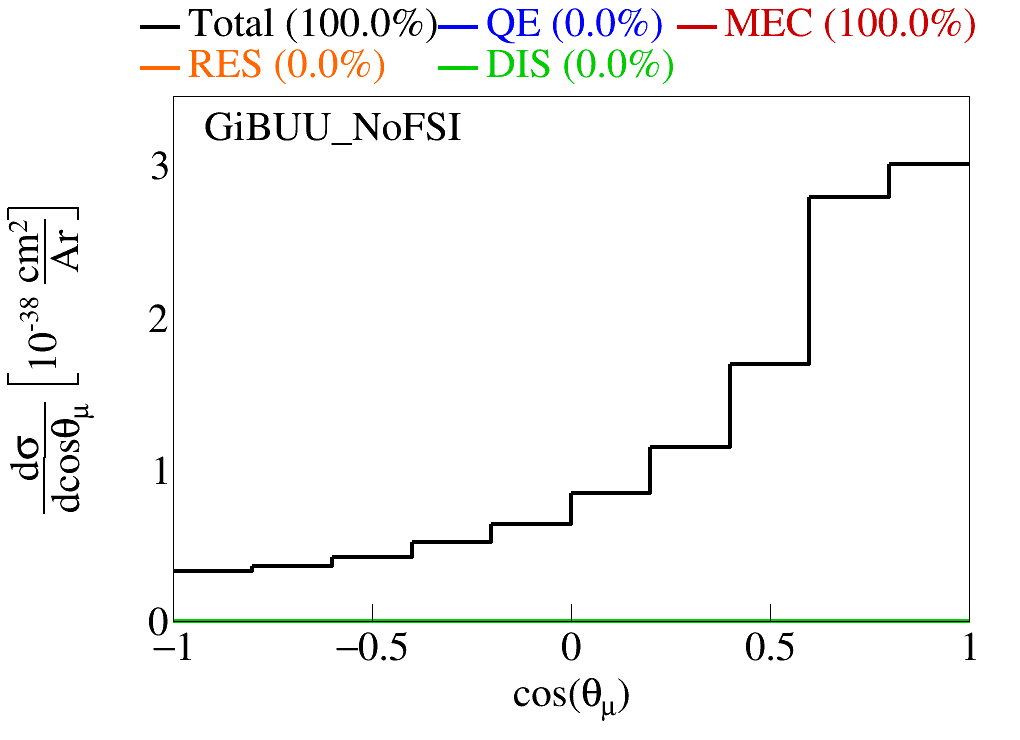
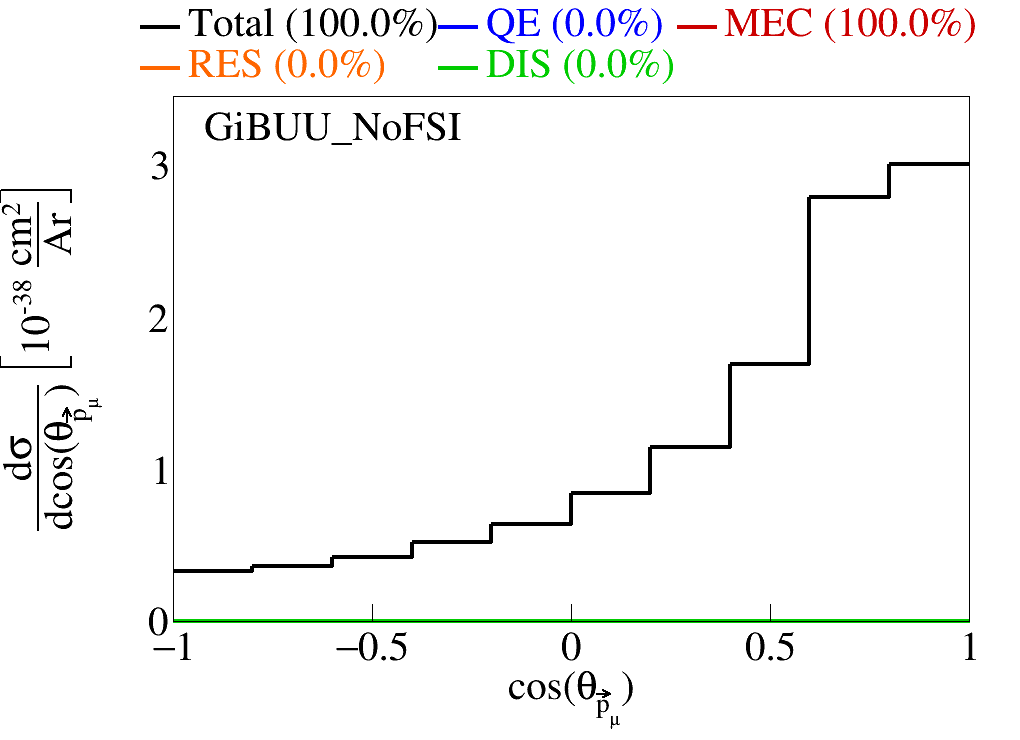
Reweight double differential plots correctly

Changed region(s): [[0.0, 0.2486, 0.0912, 0.7149], [0.4863, 0.9014, 0.6382, 0.9946]]

diff --git a/Scripts/SerialGeneratorOverlay.cpp b/Scripts/SerialGeneratorOverlay.cpp
@@ -76,12 +76,25 @@ void SerialGeneratorOverlay() {
     // Plots to overlay
 
     std::vector<TString> PlotNames;
+    std::vector<TString> XAxisLabel;
+    std::vector<TString> YAxisLabel;
 
     // We only look at double differential plots here
     PlotNames.push_back("TrueSerialTransverseMomentum_InMuonCosThetaPlot");
+    XAxisLabel.push_back("#delta P_{T}");
+    YAxisLabel.push_back("#frac{d#sigma}{d#delta P_{T}} #left[10^{-38} #frac{cm^{2}}{Ar}#right]");
+
     PlotNames.push_back("TrueSerialDeltaAlphaT_InMuonCosThetaPlot");
+    XAxisLabel.push_back("#delta #alpha_{T}");
+    YAxisLabel.push_back("#frac{d#sigma}{d#delta #alpha_{T}} #left[10^{-38} #frac{cm^{2}}{Ar}#right]");
+
     PlotNames.push_back("TrueSerialCosOpeningAngleProtons_InMuonCosThetaPlot");
+    XAxisLabel.push_back("cos(#theta_{#vec{p}_{L},#vec{p}_{R}})");
+    YAxisLabel.push_back("#frac{d#sigma}{dcos(#theta_{#vec{p}_{L},#vec{p}_{R}})} #left[10^{-38} #frac{cm^{2}}{Ar}#right]");
+
     PlotNames.push_back("TrueSerialCosOpeningAngleMuonTotalProton_InMuonCosThetaPlot");
+    XAxisLabel.push_back("cos(#theta_{#vec{p}_{#mu},#vec{p}_{sum}})");
+    YAxisLabel.push_back("#frac{d#sigma}{dcos(#theta_{#vec{p}_{#mu},#vec{p}_{sum}})} #left[10^{-38} #frac{cm^{2}}{Ar}#right]");
 
     const int NPlots = PlotNames.size();
 
@@ -128,6 +141,7 @@ void SerialGeneratorOverlay() {
         // Loop over the slices
         for (int iSlice = 0; iSlice < NSlices; iSlice++) {
             TString SlicePlotName = PlotName + "_" + TString(std::to_string(iSlice));
+            double SliceWidth = SliceDiscriminators[iSlice + 1] - SliceDiscriminators[iSlice]; 
 
             // Get number of bins
             int SliceNBins = SerialVectorBins.at(iSlice);
@@ -140,16 +154,17 @@ void SerialGeneratorOverlay() {
 
             // Declare canvas and legend
             TString CanvasName = "Canvas_" + SlicePlotName;
-            TCanvas* PlotCanvas = new TCanvas(CanvasName,CanvasName,205,34,1024,768);
+            TCanvas* PlotCanvas = new TCanvas(CanvasName,CanvasName,205,34,1124,768);
 
-            PlotCanvas->SetTopMargin(0.12);
-            PlotCanvas->SetLeftMargin(0.15);
-            PlotCanvas->SetBottomMargin(0.15);		
+            PlotCanvas->SetTopMargin(0.13);
+            PlotCanvas->SetLeftMargin(0.17);
+            PlotCanvas->SetRightMargin(0.05);
+            PlotCanvas->SetBottomMargin(0.16);
 
             TLegend* leg = new TLegend(0.2,0.7,0.75,0.83);
             leg->SetBorderSize(0);
             leg->SetNColumns(2);
-            leg->SetTextSize(TextSize*0.8);	
+            leg->SetTextSize(TextSize*0.8);
             leg->SetTextFont(FontStyle);
 
             for (int iSample = 0; iSample < NSamples; iSample++) {
@@ -157,7 +172,7 @@ void SerialGeneratorOverlay() {
                     TruePlots[iSample],
                     SerialVectorLowBin.at(iSlice),
                     SerialVectorHighBin.at(iSlice),
-                    1, // NOTE: change scale factor
+                    SliceWidth,
                     SerialSliceBinning,
                     Labels[iSample]
                 );
@@ -168,6 +183,7 @@ void SerialGeneratorOverlay() {
                 Histos[iSlice][iSample]->GetXaxis()->SetLabelFont(FontStyle);
                 Histos[iSlice][iSample]->GetXaxis()->SetNdivisions(8);
                 Histos[iSlice][iSample]->GetXaxis()->SetLabelSize(TextSize);
+                Histos[iSlice][iSample]->GetXaxis()->SetTitle(XAxisLabel.at(iPlot));
                 Histos[iSlice][iSample]->GetXaxis()->SetTitleSize(TextSize);
                 Histos[iSlice][iSample]->GetXaxis()->SetTitleOffset(1.1);
                 Histos[iSlice][iSample]->GetXaxis()->CenterTitle();
@@ -176,11 +192,11 @@ void SerialGeneratorOverlay() {
                 Histos[iSlice][iSample]->GetYaxis()->SetLabelFont(FontStyle);
                 Histos[iSlice][iSample]->GetYaxis()->SetNdivisions(6);
                 Histos[iSlice][iSample]->GetYaxis()->SetLabelSize(TextSize);
-                Histos[iSlice][iSample]->GetYaxis()->SetTitle("Cross Section [10^{-38} cm^{2}/Ar]");
+                Histos[iSlice][iSample]->GetYaxis()->SetTitle(YAxisLabel.at(iPlot));
                 Histos[iSlice][iSample]->GetYaxis()->SetTitleSize(TextSize);
                 Histos[iSlice][iSample]->GetYaxis()->SetTitleOffset(1.3);
                 Histos[iSlice][iSample]->GetYaxis()->SetTickSize(0);
-                Histos[iSlice][iSample]->GetYaxis()->CenterTitle();	
+                Histos[iSlice][iSample]->GetYaxis()->CenterTitle();
 
                 double imax = TMath::Max(Histos[iSlice][iSample]->GetMaximum(),Histos[iSlice][0]->GetMaximum());
 
@@ -196,7 +212,13 @@ void SerialGeneratorOverlay() {
             }
             PlotCanvas->cd();
             leg->Draw();
-                
+
+            TLatex *textSlice = new TLatex();
+            textSlice->SetTextFont(FontStyle);
+            textSlice->SetTextSize(TextSize);
+            TString SliceLabel = tools.to_string_with_precision(SliceDiscriminators[iSlice + 1], 1) + " < " + PlotNameToSliceLabel[PlotName] + " < " + tools.to_string_with_precision(SliceDiscriminators[iSlice], 1);
+            textSlice->DrawLatexNDC(0.4,0.92,SliceLabel);
+
             PlotCanvas->SaveAs("./Figs/Overlay/Serial/"+SlicePlotName+".png");
             delete PlotCanvas;
 

diff --git a/Scripts/Constants.h b/Scripts/Constants.h
@@ -66,6 +66,13 @@ namespace Constants {
         {"TrueSerialCosOpeningAngleProtons_InMuonCosThetaPlot", {TwoDArrayNBinsMuonCosTheta, TwoDArrayNBinsCosOpeningAngleProtonsInMuonCosThetaSlices}},
         {"TrueSerialCosOpeningAngleMuonTotalProton_InMuonCosThetaPlot", {TwoDArrayNBinsMuonCosTheta, TwoDArrayNBinsCosOpeningAngleMuonTotalProtonInMuonCosThetaSlices}}
     };
+
+    static std::map<TString, TString> PlotNameToSliceLabel = {
+        {"TrueSerialTransverseMomentum_InMuonCosThetaPlot", "cos(#theta_{#vec{p}_{#mu}})"},
+        {"TrueSerialDeltaAlphaT_InMuonCosThetaPlot", "cos(#theta_{#vec{p}_{#mu}})"},
+        {"TrueSerialCosOpeningAngleProtons_InMuonCosThetaPlot", "cos(#theta_{#vec{p}_{#mu}})"},
+        {"TrueSerialCosOpeningAngleMuonTotalProton_InMuonCosThetaPlot", "cos(#theta_{#vec{p}_{#mu}})"}
+    };
 }
 
 #endif
